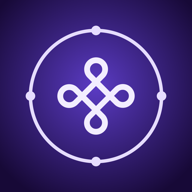
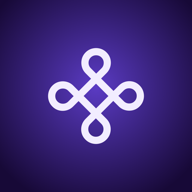
Icona: solo il nodo, più grande

Changed region(s): [[0.25, 0.25, 0.75, 0.75], [0.125, 0.125, 0.875, 0.875]]

diff --git a/index.html b/index.html
@@ -10,8 +10,8 @@
 <meta name="apple-mobile-web-app-capable" content="yes">
 <meta name="apple-mobile-web-app-status-bar-style" content="default">
 <link rel="manifest" href="manifest.webmanifest">
-<link rel="icon" href="favicon-32.png?v=2" type="image/png">
-<link rel="apple-touch-icon" href="apple-touch-icon.png?v=2">
+<link rel="icon" href="favicon-32.png?v=3" type="image/png">
+<link rel="apple-touch-icon" href="apple-touch-icon.png?v=3">
 
 <!--
   Spell sul telefono: premi Registra, parla, il pensiero va nel repository privato e il Mac lo trascrive.

diff --git a/sw.js b/sw.js
@@ -1,5 +1,5 @@
 // Spell: il guscio dell'app resta disponibile offline; i pensieri li tiene data.js (IndexedDB).
-const C = 'spell-v2';
+const C = 'spell-v3';
 const SHELL = ['./', 'index.html', 'icon-192.png', 'favicon-32.png'];
 self.addEventListener('install', e => { self.skipWaiting(); e.waitUntil(caches.open(C).then(c => c.addAll(SHELL)).catch(() => {})); });
 self.addEventListener('activate', e => e.waitUntil(caches.keys().then(k => Promise.all(k.filter(x => x !== C).map(x => caches.delete(x)))).then(() => self.clients.claim())));
